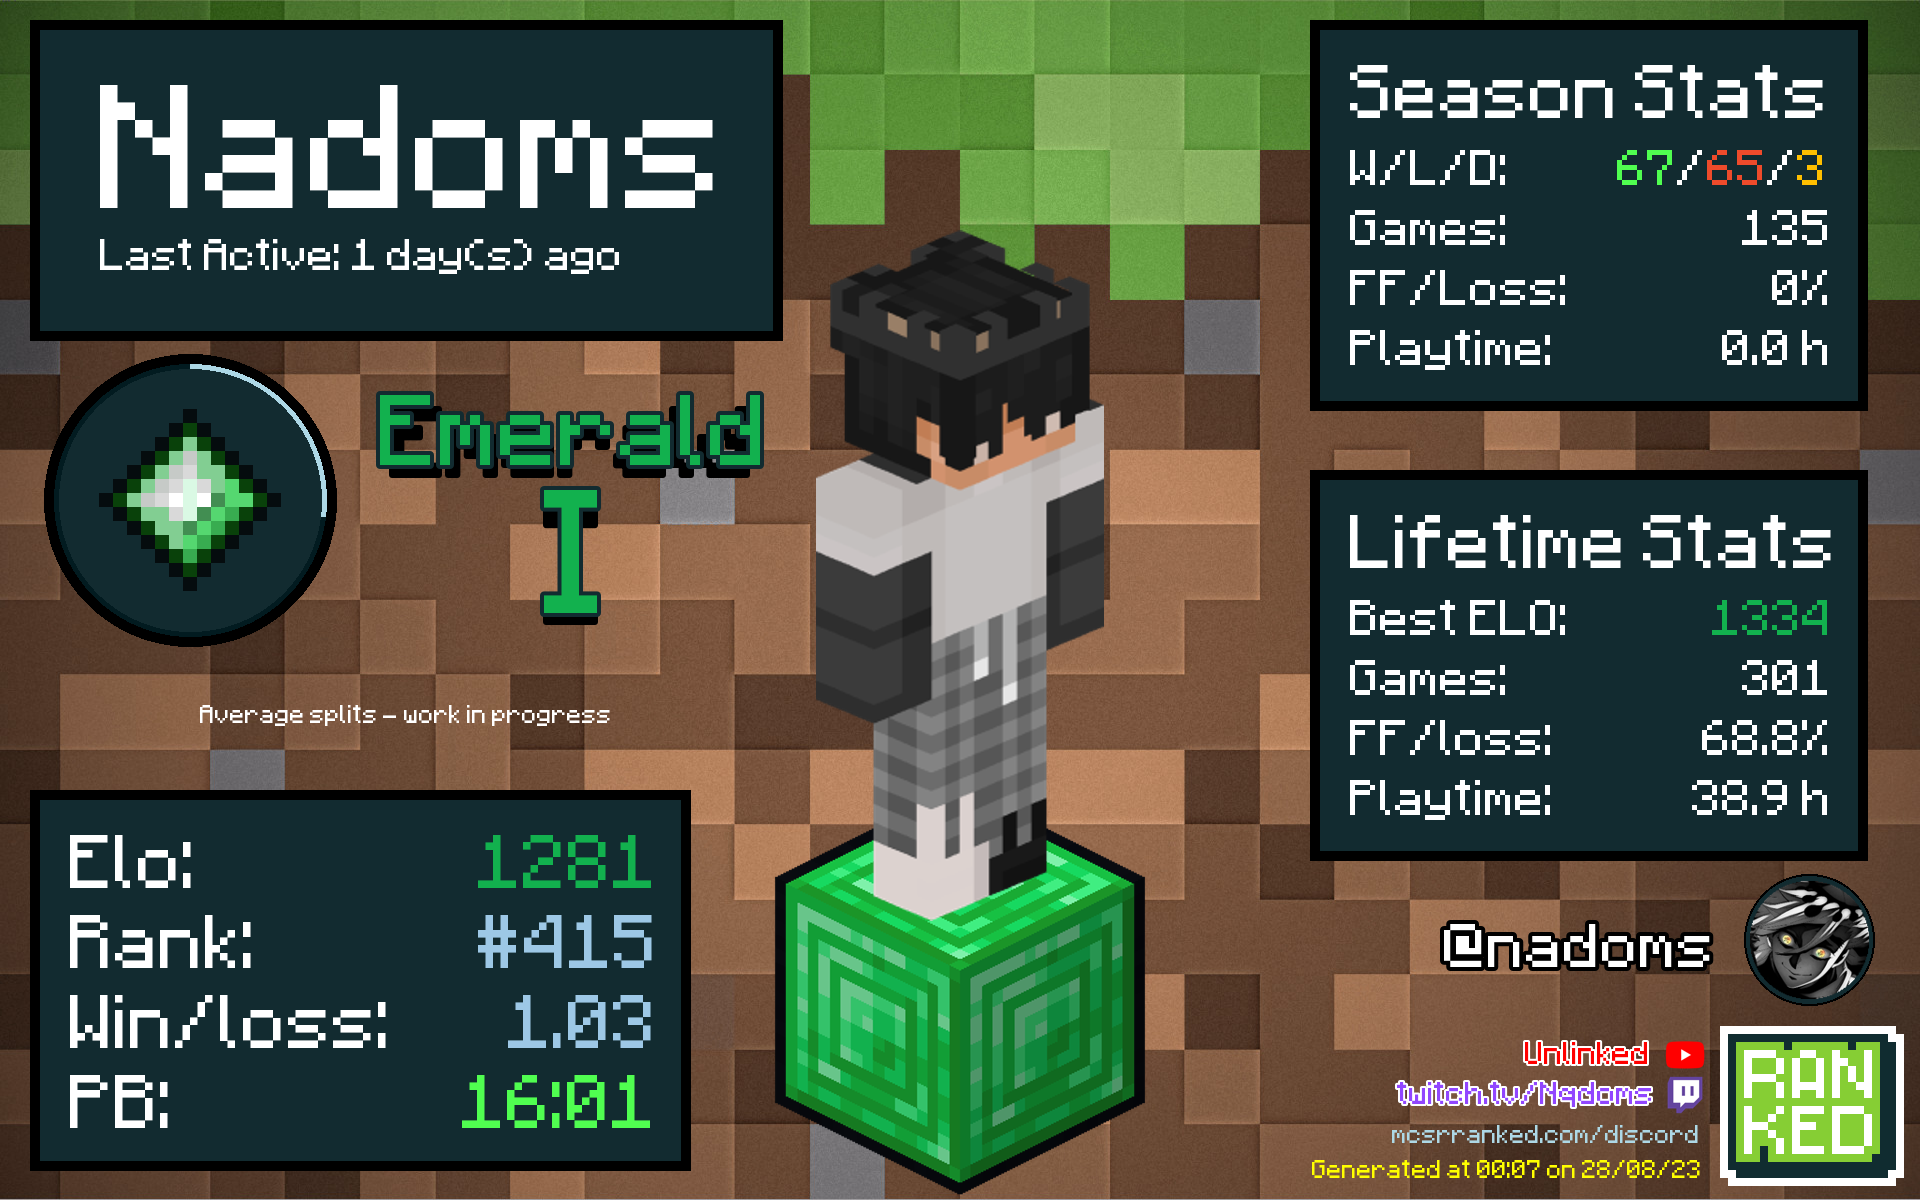
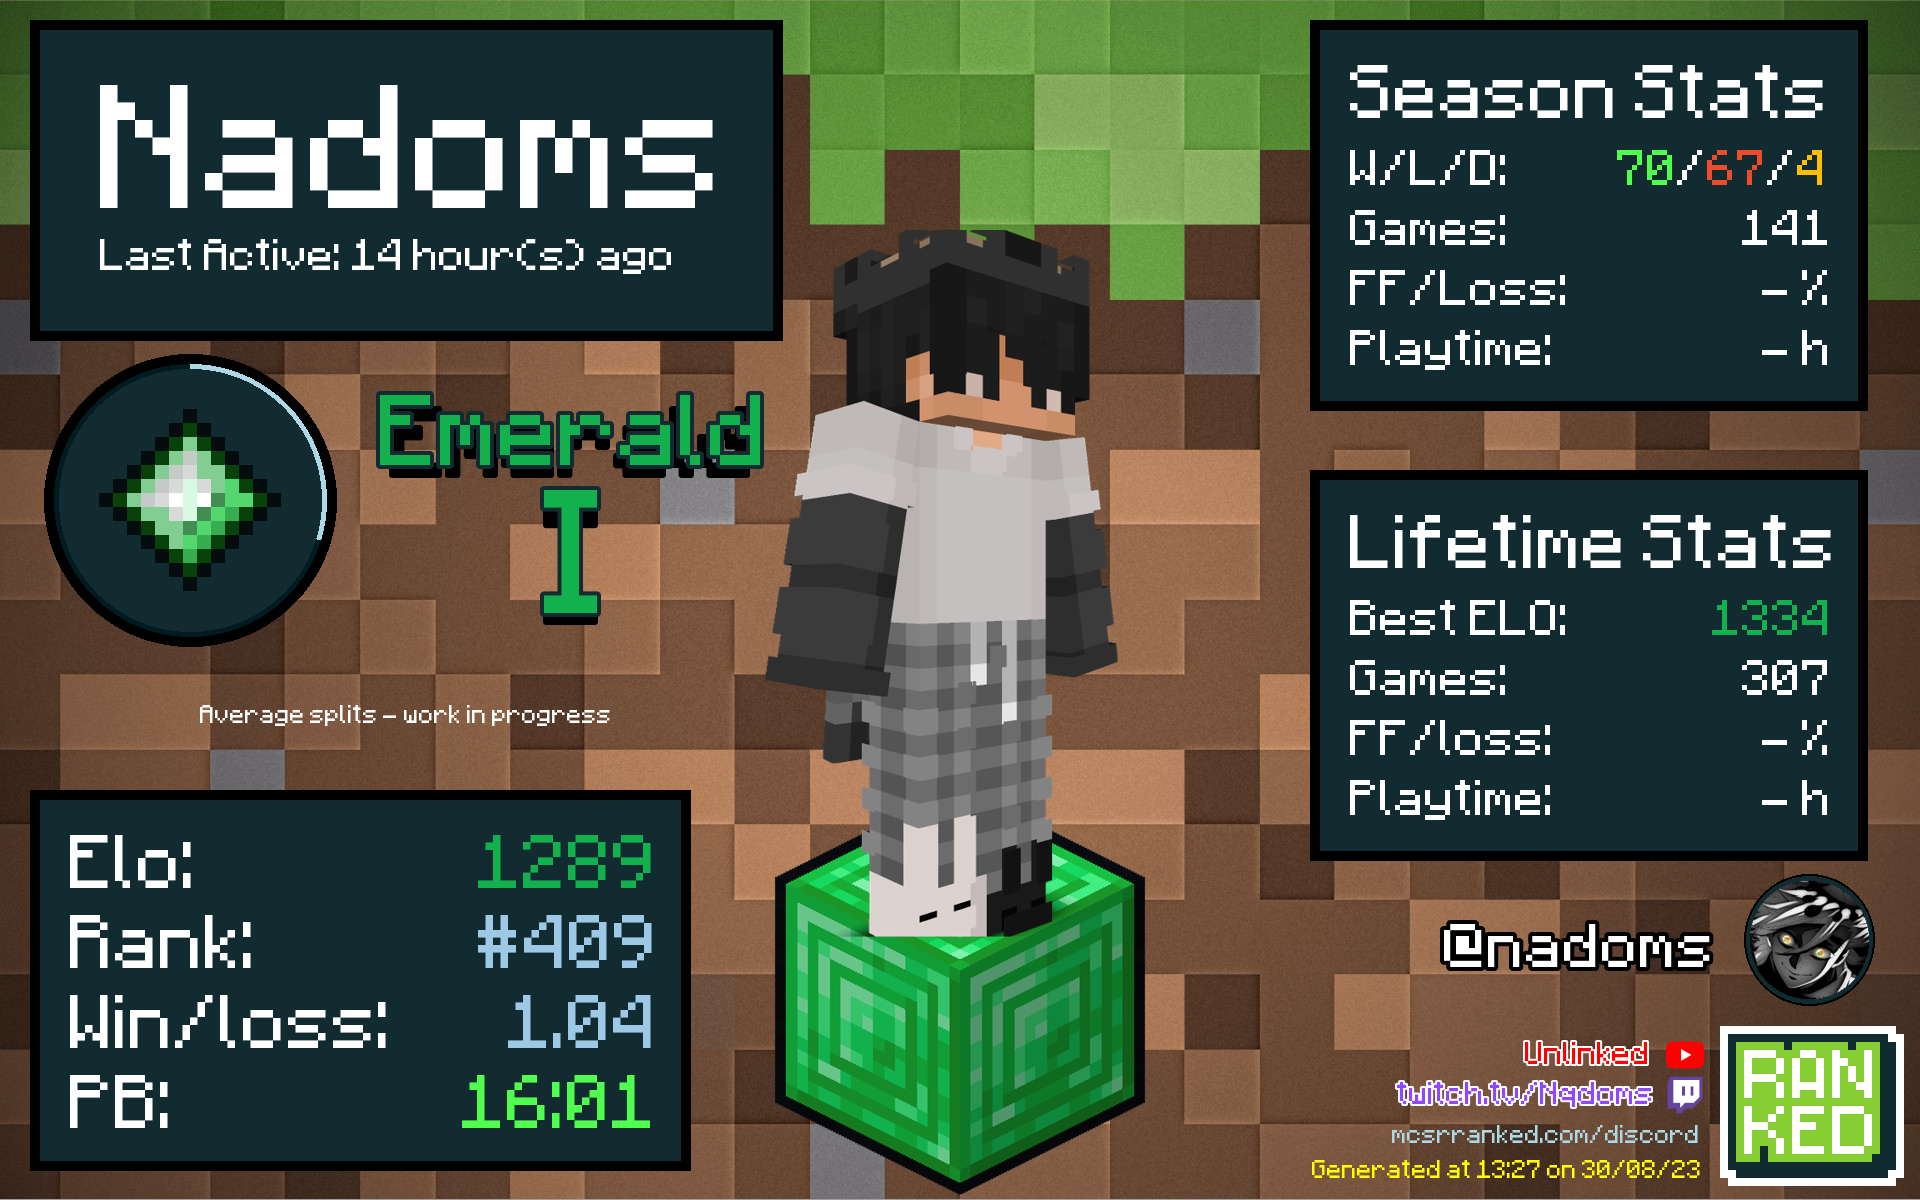
New skin api

diff --git a/bot.py b/bot.py
@@ -23,14 +23,17 @@ async def card(ctx, *input_name):
     if not input_name:
         input_name = get_name(ctx)
         if input_name == "":
-            await ctx.send("Please link your minecraft account with /link or specify a minecraft username.")
+            await ctx.send("Please link your minecraft account with </link:1145666604567367750> or specify a minecraft username.")
             return
     else:
         input_name = input_name[0]
     print(f"\nGenerating card for {input_name}")
     user = await bot.fetch_user(get_id(input_name))
     pfp = user.avatar
-    img = carding.__main__(input_name, pfp)
+    try:
+        img = carding.__main__(input_name, pfp)
+    except Exception as e:
+        await ctx.send("An error has occurred. <@298936021557706754> fix it pls")
     if img:
         img.save("card.png")
         with open("card.png", "rb") as f:
@@ -81,7 +84,7 @@ async def unlink(ctx):
         if unlinked:
             await ctx.send(f"{mcname} has been unlinked from your discord.")
         else:
-            await ctx.send(f"You are not linked. Please link your minecraft account with =link.")
+            await ctx.send(f"You are not linked. Please link your minecraft account with </link:1145666604567367750>.")
 
 # SLASH COMMANDS
 @bot.slash_command(name="ping", description="Pong!")
@@ -98,13 +101,16 @@ async def card(interaction: Interaction, input_name: str = SlashOption(
     if not input_name:
         input_name = get_name(interaction)
         if input_name == "":
-            await interaction.response.send_message("Please link your minecraft account with /link or specify a minecraft username.")
+            await interaction.response.send_message("Please link your minecraft account with </link:1145666604567367750> or specify a minecraft username.")
             return
     print(f"\nGenerating card for {input_name}")
     user = await bot.fetch_user(get_id(input_name))
     pfp = user.avatar
     await interaction.response.defer()
-    img = carding.__main__(input_name, pfp)
+    try:
+        img = carding.__main__(input_name, pfp)
+    except Exception as e:
+        await interaction.followup.send("An error has occurred. <@298936021557706754> fix it pls")
     if img:
         img.save("card.png")
         with open("card.png", "rb") as f:
@@ -156,7 +162,7 @@ async def unlink(interaction: Interaction):
         if unlinked:
             await interaction.response.send_message(f"{mcname} has been unlinked from your discord.")
         else:
-            await interaction.response.send_message(f"You are not linked. Please link your minecraft account with =link.")
+            await interaction.response.send_message(f"You are not linked. Please link your minecraft account with </link:1145666604567367750>.")
 
 
 def get_id(input_name):
@@ -165,6 +171,7 @@ def get_id(input_name):
         for line in f:
             if input_name.lower() == line.split(":")[0].lower():
                 discord = line.split(":")[-1]
+                print(discord)
                 id = nextcord.utils.get(bot.get_all_members(), name=discord).id
                 break
         else:

diff --git a/src/add_stats.py b/src/add_stats.py
@@ -8,7 +8,7 @@ from . import match
 
 def write(card, name):
     response = requests.get(f"https://mcsrranked.com/api/users/{name}").json()["data"]
-    matches = match.get_matches(response["nickname"])
+    matches = [] # match.get_matches(response["nickname"])
 
     statted_image = ImageDraw.Draw(card)
     stat_font = ImageFont.truetype('minecraft_font.ttf', 40)
@@ -123,8 +123,8 @@ def get_season_stats(response, matches):
     losses = str(response["records"]["2"]["lose"])
     draws = str(response["records"]["2"]["draw"])
     games = str(response["season_played"])
-    forfeit_loss = str(match.get_ff_loss(matches, True, response["nickname"]))
-    playtime = str(match.get_playtime(matches, True))
+    forfeit_loss = "- " # str(match.get_ff_loss(matches, True, response["nickname"]))
+    playtime = "-" # str(match.get_playtime(matches, True))
 
     return [["W/L/D:",
              "Games:",
@@ -138,8 +138,8 @@ def get_season_stats(response, matches):
 def get_lifetime_stats(response, matches):
     best_elo = str(response["best_elo_rate"])
     games = str(response["total_played"])
-    forfeit_loss = str(match.get_ff_loss(matches, False, response["nickname"]))
-    playtime = str(match.get_playtime(matches, False))
+    forfeit_loss = "- " # str(match.get_ff_loss(matches, False, response["nickname"]))
+    playtime = "-" # str(match.get_playtime(matches, False))
 
     return [["Best ELO:",
              "Games:",

diff --git a/src/add_skin.py b/src/add_skin.py
@@ -2,13 +2,13 @@ from PIL import Image
 import requests
 from io import BytesIO
 
-def write(card, name):
-    skin = get_skin(name)
+def write(card, uuid):
+    skin = get_skin(uuid)
     card.paste(skin, (round(960-skin.size[0]/2), 230), skin)
     return card
 
-def get_skin(name):
-    response = requests.get(f"https://mc-heads.net/body/{name}")
+def get_skin(uuid):
+    response = requests.get(f"https://visage.surgeplay.com/full/832/{uuid}?y=20&p=0")
     skin = Image.open(BytesIO(response.content))
-    skin = skin.resize((round(skin.size[0]*1.6), round(skin.size[1]*1.6)))
+    skin = skin.resize((round(skin.size[0]*0.85), round(skin.size[1]*0.85)))
     return skin

diff --git a/card.py b/card.py
@@ -18,6 +18,7 @@ def __main__(input_name, pfp):
 
     if response["status"] != "error":
         name = response["data"]["nickname"]
+        uuid = response["data"]["uuid"]
         file = path.join("src", "pics", "bgs", "grass.jpg")
         card = Image.open(file)
 
@@ -30,7 +31,7 @@ def __main__(input_name, pfp):
         then = splits(then, 2)
         src.add_podium.write(card, name)
         then = splits(then, 3)
-        src.add_skin.write(card, name)
+        src.add_skin.write(card, uuid)
         then = splits(then, 4)
         src.add_badge.write(card, name)
         then = splits(then, 5)
